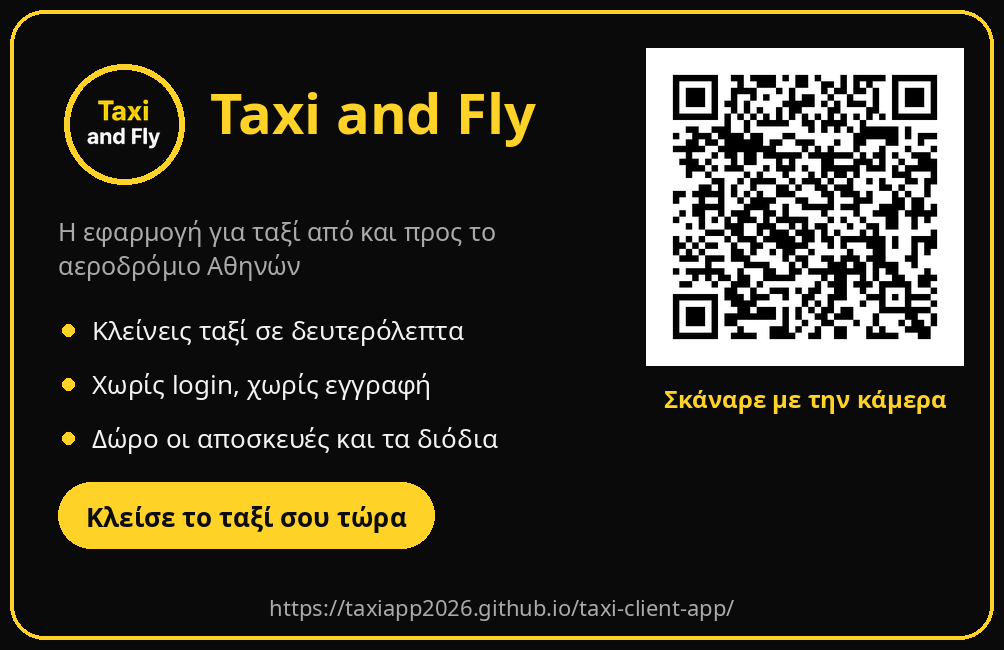
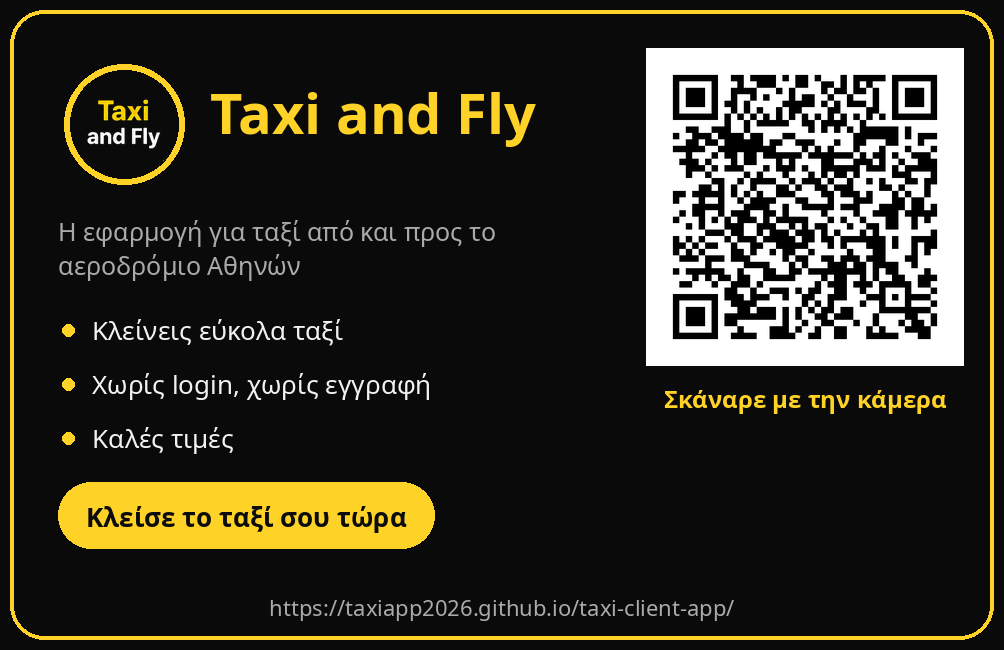
Swap card bullets to easy booking and good prices

Changed region(s): [[0.0926, 0.6462, 0.494, 0.7077], [0.1853, 0.4923, 0.4631, 0.5231]]

diff --git a/ads/print/make_card.py b/ads/print/make_card.py
@@ -38,9 +38,9 @@ EL = {
     "title": "Taxi and Fly",
     "subtitle": "Η εφαρμογή για ταξί από και προς το αεροδρόμιο Αθηνών",
     "bullets": [
-        "Κλείνεις ταξί σε δευτερόλεπτα",
+        "Κλείνεις εύκολα ταξί",
         "Χωρίς login, χωρίς εγγραφή",
-        "Δώρο οι αποσκευές και τα διόδια",
+        "Καλές τιμές",
     ],
     "cta": "Σκάναρε με την κάμερα",
     "pill": "Κλείσε το ταξί σου τώρα",
@@ -52,9 +52,9 @@ EN = {
     "title": "Taxi and Fly",
     "subtitle": "The app for taxis to and from Athens Airport",
     "bullets": [
-        "Book a taxi in seconds",
+        "Book a taxi easily",
         "No login, no sign-up",
-        "Free luggage and tolls",
+        "Good prices",
     ],
     "cta": "Scan with your camera",
     "pill": "Book your taxi now",
